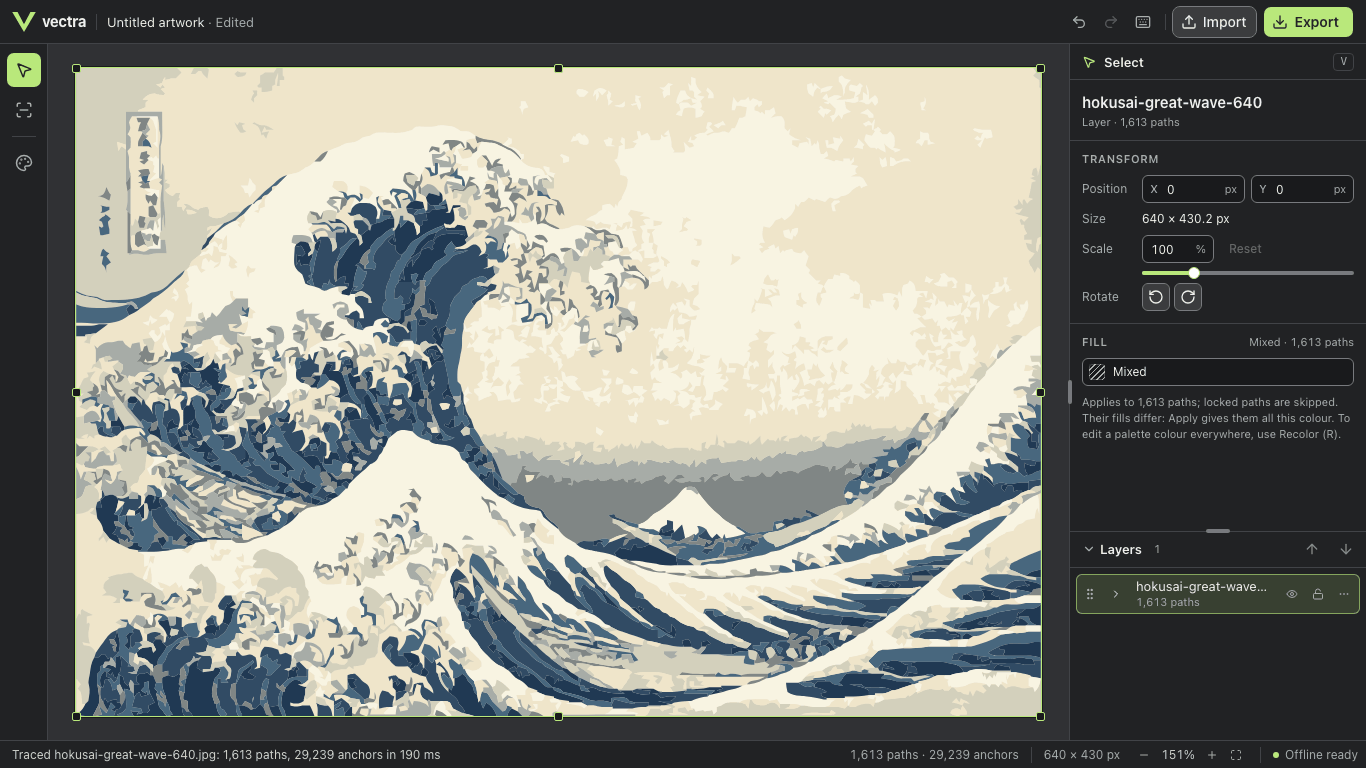
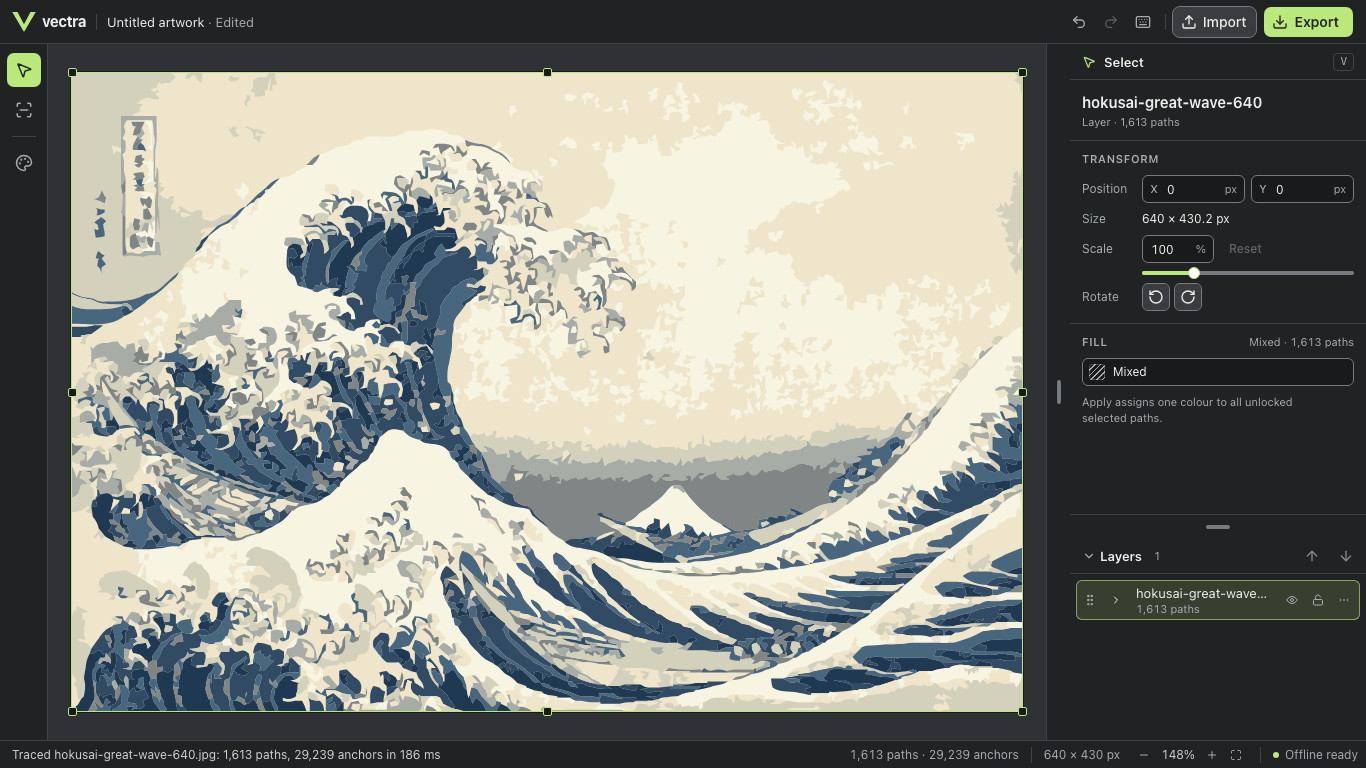
docs(g-ui-r): §17 final verification; exact build in the owner checklist; final screenshots
Playwright 375/0/0 and stress 675/675 on 3a96a8b; bundle 114.3 / 9.5 /
231.0 KiB; real Safari gui.mjs 14/14 (corrected splitters qualified)
and gr1.mjs 7/7 (focus ring, crash fallback), page visible; build ID
96221ca763e15c51 (reproducible). The owner checklist names that build.

Changed region(s): [[0.0307, 0.0625, 1.0, 0.9375], [0.2152, 0.1875, 0.246, 0.2188], [0.1845, 0.2188, 0.2152, 0.25]]

diff --git a/docs/research/g-ui-r/G-UI-R-REPORT.md b/docs/research/g-ui-r/G-UI-R-REPORT.md
@@ -494,3 +494,51 @@ The failures were deterministic and test-side only: the lock test expected the R
 
 **Not run:** real Safari (the lead runs it), VoiceOver (the checklist is updated: A6, A7, D4, D5, E5, E6, E7), the other browser specs, and Windows and Linux.
 
+
+## 17. Final verification after the closure (2026-11-25)
+**Heads.**
+- #20 app source `3a96a8b`, build ID **`96221ca763e15c51`**. A rebuild reproduces the same ID.
+- On it: the closure branch (§16, `188ddd9`), #19's final head merged forward, and the removal of the shell's `select-none` (`3a96a8b`).
+  - The Firefox handle-drag text-selection defect is fixed at the root in the canvas host, #19 `01a3dab`. It has a regression test that fails in Firefox 3/3 before the fix.
+- #19's docs head `06a2976` is merged in as well. The later commits are docs and screenshots only.
+
+**Automated.** Environment: macOS 26.6.2 arm64, Node 24.22.1, pnpm 12.23.0, Playwright 1.65.1 (Chromium 159.0.8154.6, Firefox 159.0, WebKit 27.2). The machine is shared and was not quiet.
+
+| Check | Result |
+|---|---|
+| `vp check` | Clean |
+| `vp test` | 26 files, **393 passed** |
+| Bundle (gzip KiB) | 114.3 / 9.5 / **231.0** (budgets 150 / 15 / 250) |
+| Playwright full suite, 3 engines | **375 passed, 0 failed, 0 flaky**, 36 opt-in skips; 9.0 min; load average 0.99 → 2.31 |
+| Stress: 7 affected specs × 3 repeats × 3 engines | **675 passed**; 11.7 min; load average 2.31 → 1.42 |
+| Export byte identity against `c29d5e2` (§16) | 28/28 `cmp`-identical |
+
+**Real Safari 26.6.2.** Run `tests/output/safari-runs/g-ui-r-final-3a96a8b-20261125T212357/` (gitignored; one directory per harness, nothing overwritten).
+- Screen unlocked (`CGSSessionScreenIsLocked` absent); the page was **visible before and after** each run (32 animation frames in 500 ms); load average 1.36 → 1.86.
+- **`gui.mjs`: 14/14**, findings 0. The resizable-panels scenario qualifies the **corrected splitters**:
+  - both are strips at least 24 px across, with no overlay, clear of the canvas and of every control;
+  - keyboard and pointer resizing;
+  - the Layers collapse control;
+  - a pointer-down 4 px inside the canvas edge reaches the canvas.
+- **`gr1.mjs`: 7/7**, 0 NOT RUN:
+  - render: preview 185 ms on the interactive target (a miss, accepted temporarily); halftone 293 ms (stress, no threshold);
+  - drag: 6/6, 0 geometry errors;
+  - gestures: pan and zoom p95 18 / 18 ms;
+  - keyboard;
+  - **focus ring**: outer band sampled (185, 225, 124), inner band (24, 25, 26);
+  - **crash fallback**: ready on the main thread;
+  - offline.
+
+**Final screenshots.** The six committed `*-after.png` are replaced by the closure build (1366×768, palette-quantised, 0.91 MB for the six). The full set is local in `tests/output/g-ui-r/after-closure/`.
+
+**Owner checks (not marked PASS).** VoiceOver and the stock-Safari keyboard check use `docs/research/g-r1/VOICEOVER-CHECKLIST.md`, against build ID `96221ca763e15c51`.
+
+**Open, for the maintainer:**
+- **Palette-name limits** (§16):
+  - Entries left after every traced layer is deleted show raw names. Fixing this needs a schema change.
+  - A custom name equal to an id of its own trace can't be told apart from a generated one.
+  - An unused custom name matching any trace's id is relabelled. The strict alternative is a one-line change, but shows raw names after layer fills.
+- **No fill:** the picker's starting draft is #808080, and the swatch's strike uses the destructive red. Both are the agent's choices.
+- **Splitter strips** cost 23 px of canvas width (998 px at 1366×768) and a little inspector and Layers height (§16).
+- `.impeccable/design-full.md` is now tracked: the full DESIGN.md text, moved there by Impeccable's compaction.
+- Lower-end hardware and a quiet-machine run remain outstanding.

diff --git a/docs/research/g-r1/VOICEOVER-CHECKLIST.md b/docs/research/g-r1/VOICEOVER-CHECKLIST.md
@@ -2,6 +2,16 @@
 
 These two checks need a person at the Mac. Automated tests cover keyboard behaviour and the announced text (`tests/browser/workspace-a11y.spec.ts`), but they are **not** a screen-reader test. ARIA snapshots and Playwright's accessibility tree do not stand in for VoiceOver.
 
+**Exact build to test (final closure, 2026-11-25).**
+- PR #20 (G-UI-R) at the head named in its description, with app source `3a96a8b` (later commits are docs only).
+- Build ID **`96221ca763e15c51`**. After `pnpm run build`, `grep BUILD_ID dist/sw.js` must print it. If it differs, you are not testing the qualified build.
+- Commands:
+  ```bash
+  pnpm install --frozen-lockfile && pnpm run build && grep BUILD_ID dist/sw.js
+  pnpm exec vp preview --port 4173
+  ```
+- Record every result against that build ID, with the macOS and Safari versions. Nothing here is marked PASS until a person has run it.
+
 **Setup**
 - Use real Safari on macOS with stock settings.
 - Open the workspace from the G-R1 build, or from the G-UI-R build stacked on it (E1 and E2 describe the G-UI-R inspector and picker). After the G-UI-R maintainer review the rail holds only Select, Trace and Recolor, there is no view switch, Layers has a collapse button (D1, D4), palette colours are named "Colour N" (E2) and a mixed fill is named as such (E5). After the final closure the tab title is "Vectra" (A7), both splitters are 24 px strips of their own (A6, D5), palette names are unique (E7), and a path without a fill is "None" (E6):
